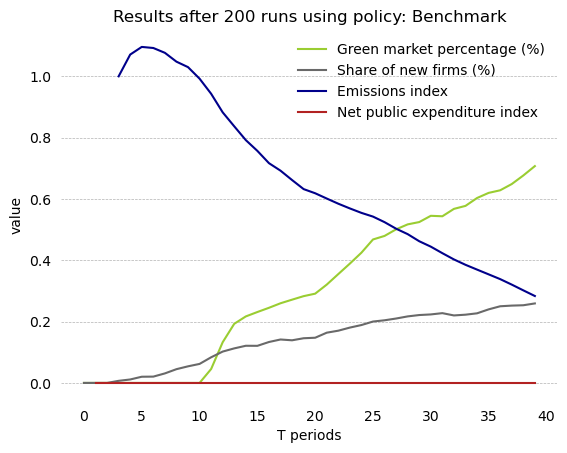
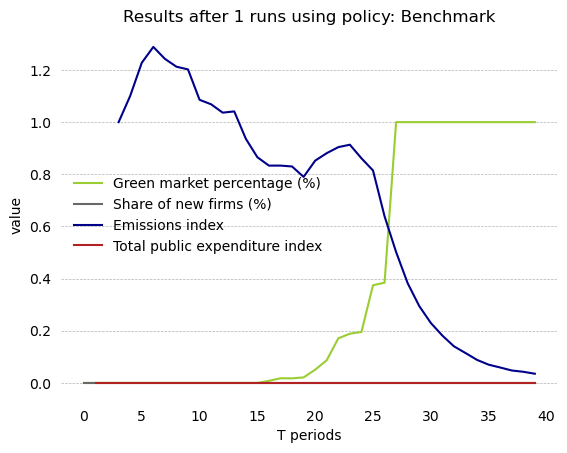
shuffling market before choice to avoid same firm when criteria are the same

diff --git a/model.py b/model.py
@@ -78,11 +78,23 @@ class Simulation:
     def update_car_info(self, car_type):
         self.num_cars[car_type][self.t] += 1
 
-    def new_firm(self):
+    def new_firm(self, busted):
         # 1. Pick an existing firm, proportional to market share
         weights = [f.market_share['total'][self.t] for f in self.firms.values()]
         key = self.seed.choices(list(self.firms.values()), weights=weights)
-        firm_to_imitate = self.firms[key[0].id]
+        while True:
+            # Making sure firm to imitate has not just gone busted
+            try:
+                i = 0
+                if self.firms[key[i].id] not in busted:
+                    firm_to_imitate = self.firms[key[i].id]
+                    break
+                else:
+                    i += 1
+            except IndexError:
+                # In the case that there are no firms to imitate that have not gone busted
+                firm_to_imitate = self.firms[key[0].id]
+                break
         # 2. if original company has both technologies, just 1/3 chance both are going to be replicated
         choice = self.seed.random()
         if len(firm_to_imitate.cars) == 2:
@@ -119,8 +131,7 @@ class Simulation:
             self.green_market_share[self.t] = 0
             self.green_stations[self.t] = 1
         else:
-            green_cars = sum([firm.sold_cars['green'][self.t - 1]
-                              for firm in self.firms.values() if 'green' in firm.cars])
+            green_cars = self.num_cars['green'][self.t - 1]
             total_cars = self.num_cars['gas'][self.t - 1] + self.num_cars['green'][self.t - 1]
             # One more place in which sold cars are 0
             self.green_market_share[self.t] = green_cars / total_cars if total_cars > 0 else 0
@@ -207,7 +218,7 @@ class Simulation:
             print(params.cor.Fore.LIGHTMAGENTA_EX + f'Firms {[i for i in landfill]} '
                                                     f'has(ve) gone bankrupt at time {self.t}')
         for i in landfill:
-            self.new_firm()
+            self.new_firm(landfill)
             del self.firms[i]
 
     def demand(self):

diff --git a/generalization.py b/generalization.py
@@ -68,20 +68,6 @@ def plotting(results, n):
     return res
 
 
-# def processing_standard_policies(pol_results):
-#     # Receives a specific policy dictionary of results of runs and processes the averages
-#     averages = dict()
-#     cols = ['green_market_share', 'new_firms_share', 'emissions_index', 'public_index']
-#     for col in cols:
-#         averages[col] = pd.DataFrame()
-#     for run in pol_results:
-#         for col in cols:
-#             averages[col].loc[:, run] = pol_results[run][col]
-#     for col in cols:
-#         averages[col] = averages[col].mean(axis=1)
-#     return averages
-
-
 def plot_policies(results, levels, n):
     # Receives a dictionary of results for policies
     # Each with all 9 levels
@@ -145,7 +131,7 @@ def benchmark(n=10):
 
 if __name__ == '__main__':
     t0 = time.time()
-    m = 10
+    m = 100
     benchmark(m)
     # r, l, m = policies(m)
     # plot_policies(r, l, m)

diff --git a/consumers.py b/consumers.py
@@ -41,6 +41,8 @@ class Consumer:
         criteria1, criteria2 = sim.seed.choices(criteria, k=2)
         # Value that represents consumer emotion (brand). It can change at each t.
         emotion = sim.seed.random()
+        # In case the criteria are identical
+        sim.seed.shuffle(my_market)
         my_market.sort(key=lambda c: c.criteria_selection(emotion, criteria1, criteria2), reverse=True)
 
         self.my_car = my_market[0]

diff --git a/params.py b/params.py
@@ -7,7 +7,7 @@ from numpy import linspace
 # Initiating time parameter
 T = 40
 num_firms = 8
-num_consumers = 10000
+num_consumers = 2000
 
 # Vehicles characteristics ---------------------------------------------
 production_cost = {'green': 27356, 'gas': 16950, 'min': 10000}

diff --git a/Notes.md b/Notes.md
@@ -2,6 +2,11 @@
 
 #### Upon reading!
 
+### Importante take aways!
+
+**Tudo conferido, pequenos ajustes, mas: continua índice de greens bem  maior que o reportado no artigo
+**
+
 0. O Cleanness do carro estava como 1/drive_range, mas é 1/emmissions. Troquei.
 1. Probability adoption estava dividindo antes de elevar. Troquei.
 2. Epsilon estava escolhendo o máximo entre 0 e market share green, na verdade é epsilon se 0 e share se diferente 
@@ -15,13 +20,11 @@ investments occur, PC is updated. Because consumers buy first, necessarily PC re
 a imitar e não entre green t0 e a firma a imitar. Corrigi :|
 7. Conferido pela segunda vez. Autores mencionam no item C.2.2 que quanto mais tempo investido em um carro, menor chance
 de abandonar portfólio, mas isso não condiz com a fórmula e afirmação que ROI é do período anterior. 
+8. Firmas que quebraram não podem mais serem imitadas
+
+0. IVA é usado como benchmarket para public finance.
 1. Autores mencionam CUMULATIVE COSTS p.64
-2. ROI is just previous period
-
 6. **Public expenditure is calculated using ACCUMULATED expenditures**
-
-4. A firma que é eliminada pode ser utilizada como imitação, dentre as alternativas aleatórias, logo depois é 
-eliminada. 
 
 ## TO EVALUATE STILL
 5. **Do discounts and taxes paid/received by consumers affect value received by firms?**
